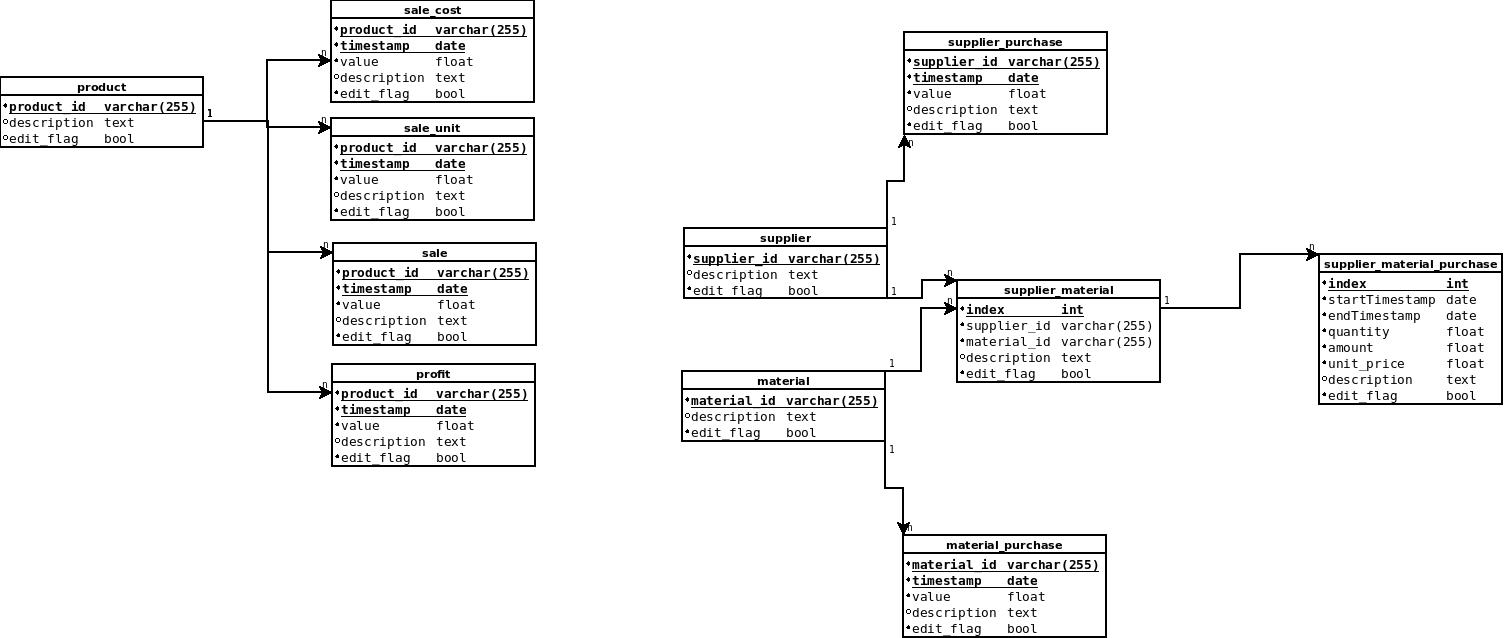
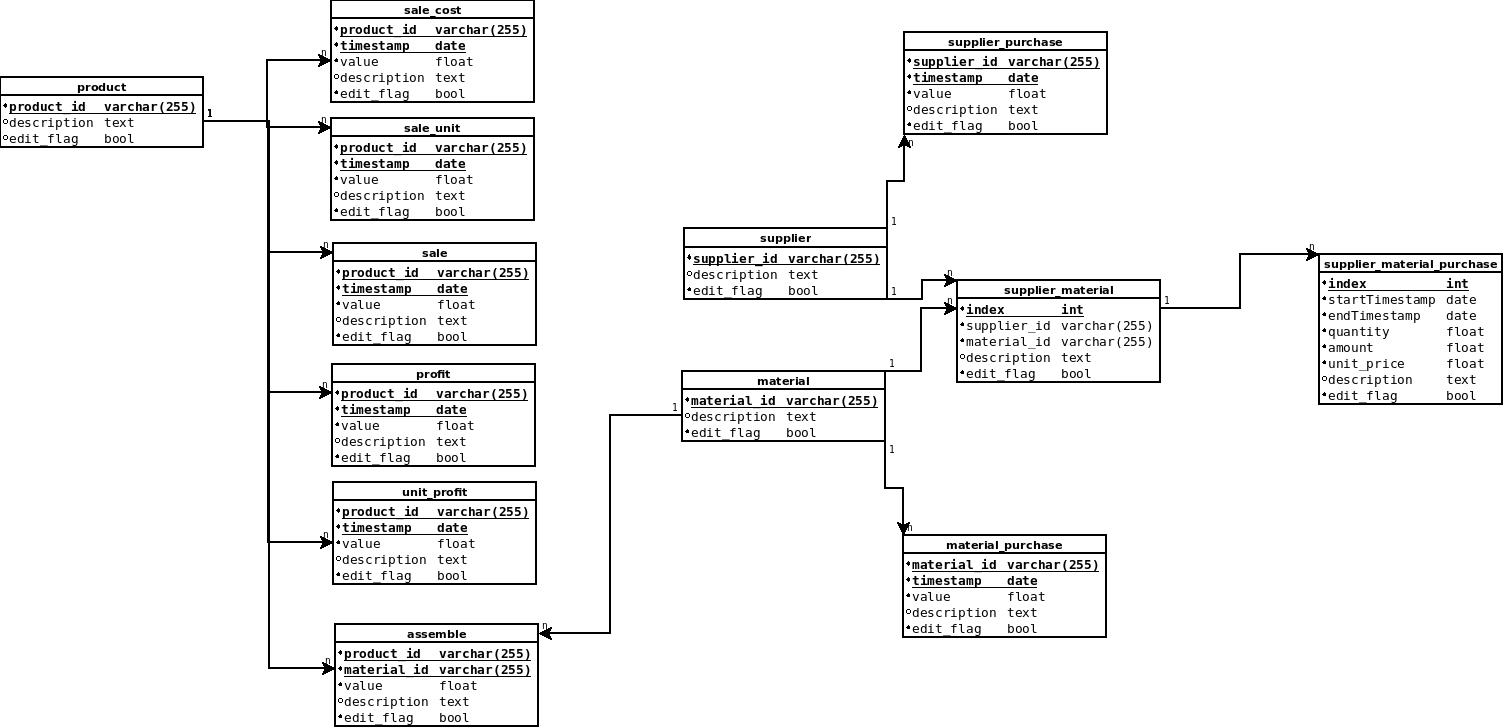
Loading unit profit

diff --git a/views/css/layout.css b/views/css/layout.css
@@ -124,6 +124,20 @@ table.profit_table td{
   border-width: thin;
 }
 
+/*table of profit*/
+table.unit_profit_table{
+  border-collapse: collapse;
+}
+
+table.unit_profit_table tr th{
+  border-style: solid;
+  border-width: thin;
+}
+
+table.unit_profit_table td{
+  border-style: solid;
+  border-width: thin;
+}
 
 /*RESPONSIVE CSS*/
 @media screen and (max-width:600px) {

diff --git a/views/dashboard.php b/views/dashboard.php
@@ -11,6 +11,7 @@ if(null == $username || null == $permission){
 
 //get session
 $obj = ($_SESSION['profitTable']);
+$obj1 = $_SESSION['unitProfitTable'];
 
 //check direct access through router
 if(!defined('AccessAllowance')){
@@ -66,6 +67,7 @@ if(!defined('AccessAllowance')){
 
         <!--table for profit-->
         <div class="profit_table_wrapper">
+          <h3>Total profit of each product per month</h3>
           <table class="profit_table">
             <tr>
               <th>ID</th>
@@ -87,10 +89,31 @@ if(!defined('AccessAllowance')){
              ?>
           </table>
         </div>
+        <br><br><hr><br><br>
 
         <!--table for unit profit-->
-        <div class="unit_profit">
-
+        <div class="unit_profit_wrapper">
+          <h3>Profit of each product (unit) per month</h3>
+          <table class="unit_profit_table">
+            <tr>
+              <th>ID</th>
+              <th>Timestamp</th>
+              <th>Value</th>
+              <th>Description</th>
+            </tr>
+            <?php
+              foreach ($obj1 as $key) {
+                ?>
+                <tr>
+                  <td><?php echo $key->getProductId(); ?></td>
+                  <td><?php echo $key->getRecordTime(); ?></td>
+                  <td><?php echo $key->getValue(); ?></td>
+                  <td><?php echo $key->getDescription(); ?></td>
+                </tr>
+                <?php
+              }
+             ?>
+          </table>
         </div>
 
       </div>

diff --git a/models/unit_profit.php b/models/unit_profit.php
@@ -1,0 +1,72 @@
+<?php
+class unit_profit{
+  private $product_id;
+  private $record_time;
+  private $value;
+  private $description;
+
+  /**/
+  function __construct($product_id, $record_time, $value){
+    $this->product_id = $product_id;
+    $this->record_time = $record_time;
+    $this->value = $value;
+  }
+
+    public function getProductId()
+    {
+        return $this->product_id;
+    }
+
+    public function setProductId($product_id)
+    {
+        $this->product_id = $product_id;
+
+        return $this;
+    }
+
+    public function getRecordTime()
+    {
+        return $this->record_time;
+    }
+
+    public function setRecordTime($record_time)
+    {
+        $this->record_time = $record_time;
+
+        return $this;
+    }
+
+    public function getValue()
+    {
+        return $this->value;
+    }
+
+    public function setValue($value)
+    {
+        $this->value = $value;
+
+        return $this;
+    }
+
+    public function getDescription()
+    {
+        return $this->description;
+    }
+
+    public function setDescription($description)
+    {
+        $this->description = $description;
+
+        return $this;
+    }
+
+    /**/
+    function display(){
+      echo 'product_id: ' . $this->product_id . '<br>';
+      echo 'record_time: ' . $this->record_time . '<br>';
+      echo 'value: ' . $this->value . '<br>';
+    }
+
+    /**/
+
+}

diff --git a/libs/database_connection.php b/libs/database_connection.php
@@ -248,4 +248,42 @@ class databaseConnection{
     return false;
   }
 
+  /**/
+  function getUnitProfitData(){
+    if(null != $this->mysqli){
+      $st = $this->mysqli->prepare('select * from unit_profit');
+      if(false != $st){
+        $st->execute();
+        if(false != $st){
+          $result = $st->get_result();
+          $result_row = $result->num_rows;
+          $st->close();
+          if(0 < $result_row){
+            $arr = array();
+            $index = 0;
+            while($row = $result->fetch_assoc()){
+              $id = $row['product_id'];
+              $record = $row['record_time'];
+              $value = $row['value'];
+              $des = $row['description'];
+              $obj = new unit_profit($id, $record, $value);
+              $obj->setDescription($des);
+              $arr[$index++] = $obj;
+            }
+            return $arr;
+          }else{
+            die('getUnitProfitData - result not found!');
+          }
+        }else{
+          die('getUnitProfitData - executing fail!');
+        }
+      }else{
+        die('getUnitProfitData - prepared statement fail!');
+      }
+    }else{
+      die('getUnitProfitData - null database connection');
+    }
+    return false;
+  }
+
 }

diff --git a/controllers/dashboardController.php b/controllers/dashboardController.php
@@ -6,7 +6,9 @@ if(!defined('AccessAllowance')){
 }
 //constants
 define('PROFIT_MODEL', '../models/profit.php');
+define('UNIT_PROFIT_MODEL', '../models/unit_profit.php');
 require_once PROFIT_MODEL;
+require_once UNIT_PROFIT_MODEL;
 
 class dashboardController extends mainController{
 
@@ -17,8 +19,9 @@ class dashboardController extends mainController{
     Output: dashboard.php
   */
   public function view(){
-    //load profit table
+    //load profit table and unit_profit table
     $this->loadProfit();
+    $this->loadUnitProfit();
     //check session
     $username = $_SESSION['USER'];
     $permission = $_SESSION['PERMISSION'];
@@ -45,5 +48,20 @@ class dashboardController extends mainController{
       die('can not run getProfitData - loadProfit - dashboardController');
     }
   }
+
+  /**/
+  private function loadUnitProfit(){
+    $this->database->connect();
+    $arr = $this->database->getUnitProfitData();
+    $this->database->close();
+    if(false != $arr){
+      //set to session
+      $_SESSION['unitProfitTable'] = ($arr);
+    }else{
+      die('can not run getProfitData - loadProfit - dashboardController');
+    }
+  }
+
+  /**/
 
 }

diff --git a/test.php b/test.php
@@ -1,39 +1,6 @@
 <?php
 define("AccessAllowance", true);
-echo 'test' . '<br>';
-require_once 'libs/database_connection.php';
-require_once 'libs/customTime.php';
-require_once 'models/product.php';
-require_once 'models/sale_unit.php';
-$con = new databaseConnection();
-$con->connect();
 
-$fileURL = 'uploads/sale_unit_2020.csv';
-$startTime = new customTime(2019, 7);
-$endTime = new customTime(2020, 4);
-$startTime->display();
-$endTime->display();
-$arr = array();
-$index = 0;
-
-$file = fopen($fileURL, 'r');
-if(false != $file){
-  while(!feof($file)){
-    $row = fgets($file);
-    $row = explode(';', $row);
-    if($con->searchProductById($row[1])){
-      $tmp = new customTime($startTime->getYear(), $startTime->getMonth());
-      $dex = 3;
-      for(; $tmp->getCompareTime() <= $endTime->getCompareTime(); $tmp->increaseMonth(1), $dex++){
-        $obj = new sale_unit($row[1], $tmp->returnTimeToSQL(), $row[$dex]);
-        //echo 'time: ' . $tmp->displayTime() . '-->' . $row[$dex] . '<br>';
-        $obj->display();
-        $arr[$index++] = $obj;
-      }
-    }
-  }
-  $con->insertArrUnitSale($arr);
-}
 
 $con->close();
 echo 'end test'.'<br>';
